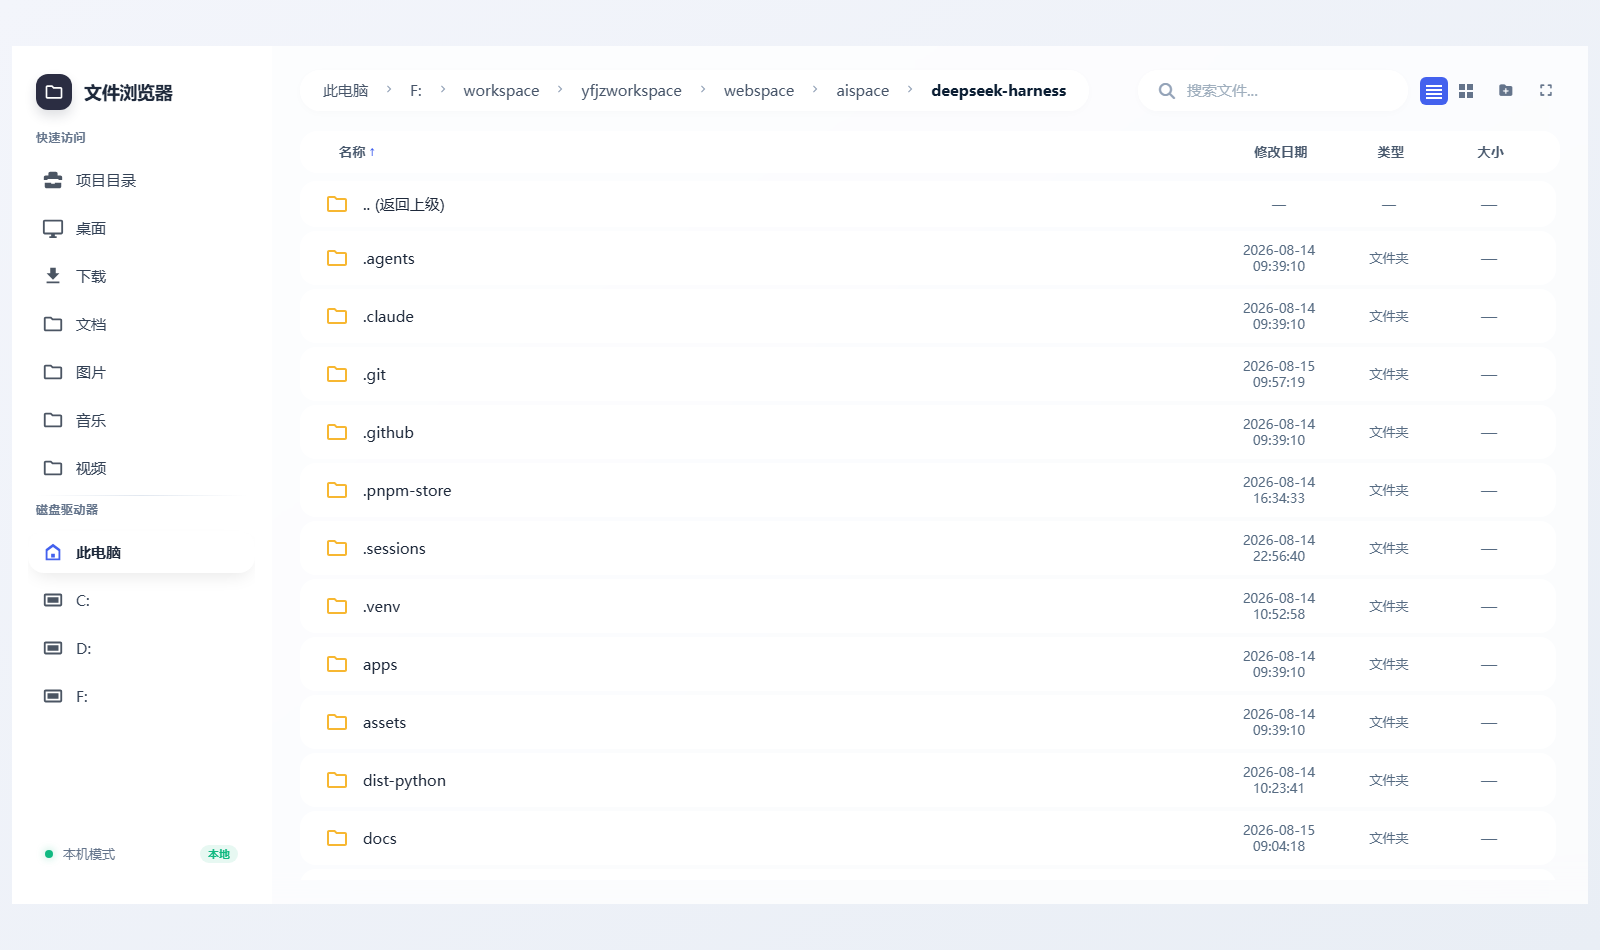
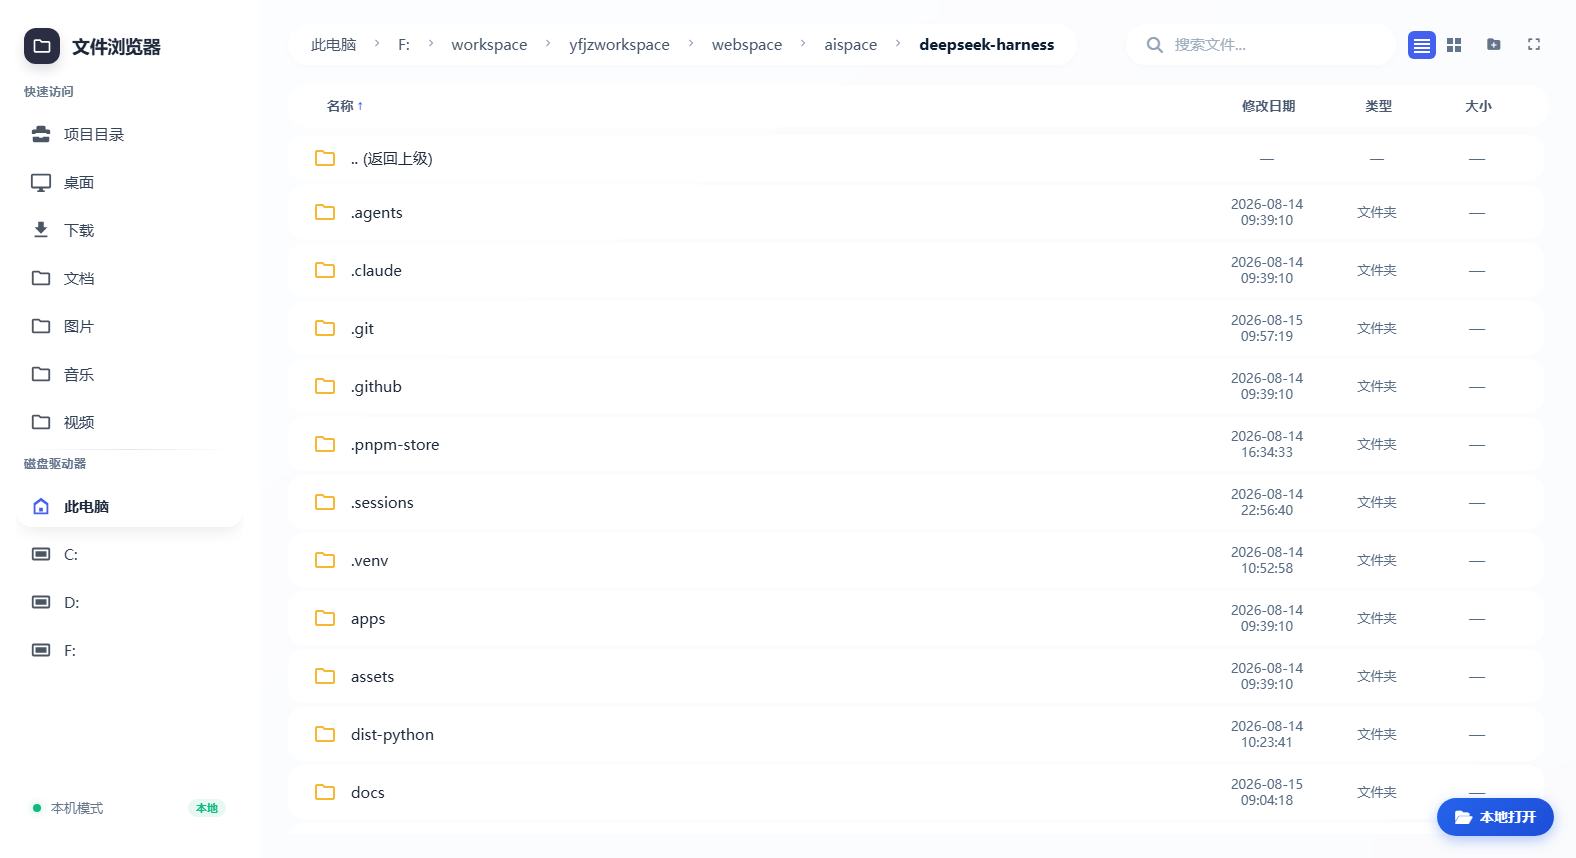
docs: show core features in screenshots and demo GIF
Re-captures the UI storyboard via CDP against a real instance: main view,
breadcrumb navigation, list/grid view switch, sidebar navigation, search,
and the local-open button (with its toast). Rebuilds demo.gif from the six
frames and reworks the Features section of both READMEs around them.

diff --git a/README.md b/README.md
@@ -10,13 +10,21 @@ English | [中文](README.zh.md)
 
 ## Features
 
-| File browsing | Folders and text preview | Sidebar |
+| 面包屑导航 Breadcrumbs | 视图切换 View switch | 侧边栏 Sidebar |
 | --- | --- | --- |
-| ![File browsing](docs/screenshots/01-main.png) | ![docs folder](docs/screenshots/02-docs.png) | ![host folder](docs/screenshots/03-host.png) |
+| ![面包屑导航](docs/screenshots/02-breadcrumb.png) | ![视图切换](docs/screenshots/03-grid.png) | ![侧边栏](docs/screenshots/04-sidebar.png) |
 
+| 搜索 Search | 本地打开 Local open |
+| --- | --- |
+| ![搜索](docs/screenshots/05-search.png) | ![本地打开](docs/screenshots/06-local-open.png) |
+
+- **面包屑导航** — clickable breadcrumbs navigate every level of the current path back to the root.
+- **视图切换** — list and card (grid) views, one click apart.
+- **侧边栏** — project directory, quick access (Desktop/Downloads/Documents…), custom roots, and drives.
+- **搜索** — toolbar search with optional recursive mode (200-hit cap).
+- **本地打开** — in local mode, a floating button in the bottom-right opens the system file manager at the current directory.
 - **Full file browser** — list/search, text preview (markdown, code, logs), image preview, and create/rename/copy/delete folders.
 - **`/dsh-agfs` command** — opens the file browser in the system default browser and **automatically navigates to the current session's workspace directory** (session cwd); switch workspaces and it follows.
-- **Local-open button** — in local mode, a floating button in the bottom-right opens the system file manager at the current directory.
 - **`browse_files` model tool** — the model can list or recursively search the browser root directly.
 - **Path safety** — browsing confined to the root, `strictRoot` real-path checks, symlink/junction escape interception (clean 400 envelope), `readOnly` mode, `remoteMode`.
 - **Offline frontend** — React/ReactDOM ship in the package; boots without a CDN or Babel.

diff --git a/README.zh.md b/README.zh.md
@@ -10,13 +10,21 @@
 
 ## 功能
 
-| 文件浏览 | 目录与文本预览 | 侧边栏 |
+| 面包屑导航 | 视图切换 | 侧边栏 |
 | --- | --- | --- |
-| ![文件浏览](docs/screenshots/01-main.png) | ![docs 目录](docs/screenshots/02-docs.png) | ![host 目录](docs/screenshots/03-host.png) |
+| ![面包屑导航](docs/screenshots/02-breadcrumb.png) | ![视图切换](docs/screenshots/03-grid.png) | ![侧边栏](docs/screenshots/04-sidebar.png) |
 
+| 搜索 | 本地打开 |
+| --- | --- |
+| ![搜索](docs/screenshots/05-search.png) | ![本地打开](docs/screenshots/06-local-open.png) |
+
+- **面包屑导航**——可点击的面包屑逐级返回任意上级目录。
+- **视图切换**——列表/卡片（网格）视图一键切换。
+- **侧边栏**——项目目录、快速访问（桌面/下载/文档…）、自定义根与磁盘驱动器。
+- **搜索**——顶栏搜索，支持递归模式（命中上限 200）。
+- **本地打开**——本机模式下右下角悬浮按钮，一键用系统文件管理器打开当前目录。
 - **完整文件浏览器**——列表/搜索、文本预览（markdown、代码、日志）、图片预览，支持新建/重命名/复制/删除文件夹。
 - **`/dsh-agfs` 命令**——在系统默认浏览器中打开文件浏览器，并**自动定位到当前会话的工作区目录**（session cwd）；切换工作区后再次执行会自动跟随。
-- **本地打开按钮**——本机模式下右下角悬浮按钮，一键用系统文件管理器打开当前目录。
 - **`browse_files` 模型工具**——模型可直接列出或递归搜索浏览根。
 - **路径安全**——浏览根限定、`strictRoot` 实路径校验、符号链接/连接点逃逸拦截（干净 400 信封）、`readOnly` 只读模式、`remoteMode` 远程禁用。
 - **离线前端**——React/ReactDOM 随包发布，无 CDN、无 Babel 即可启动。
